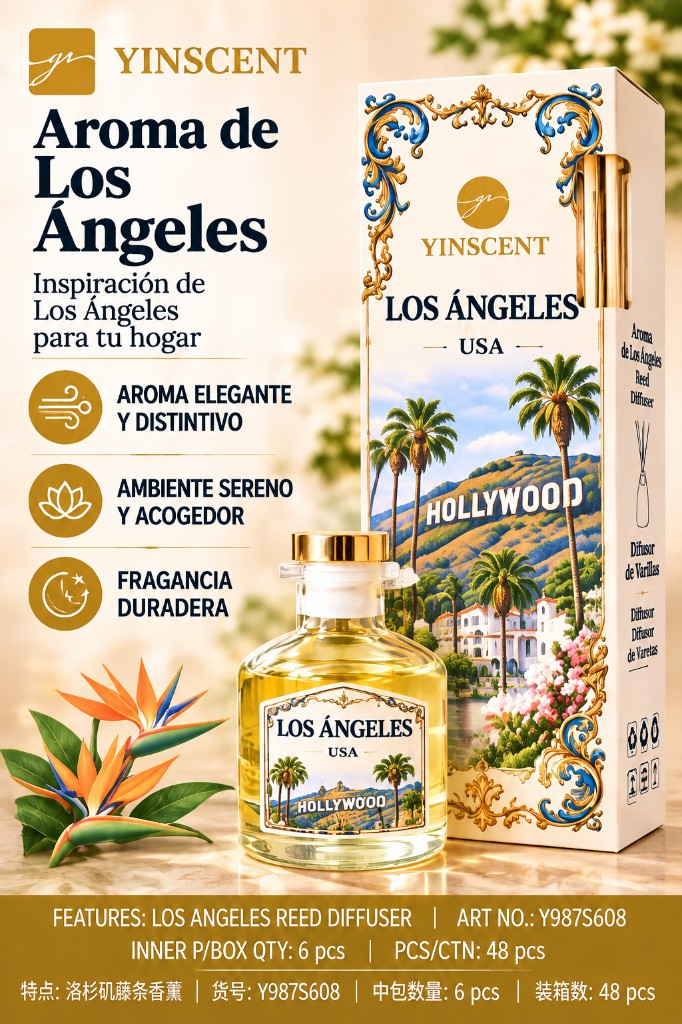
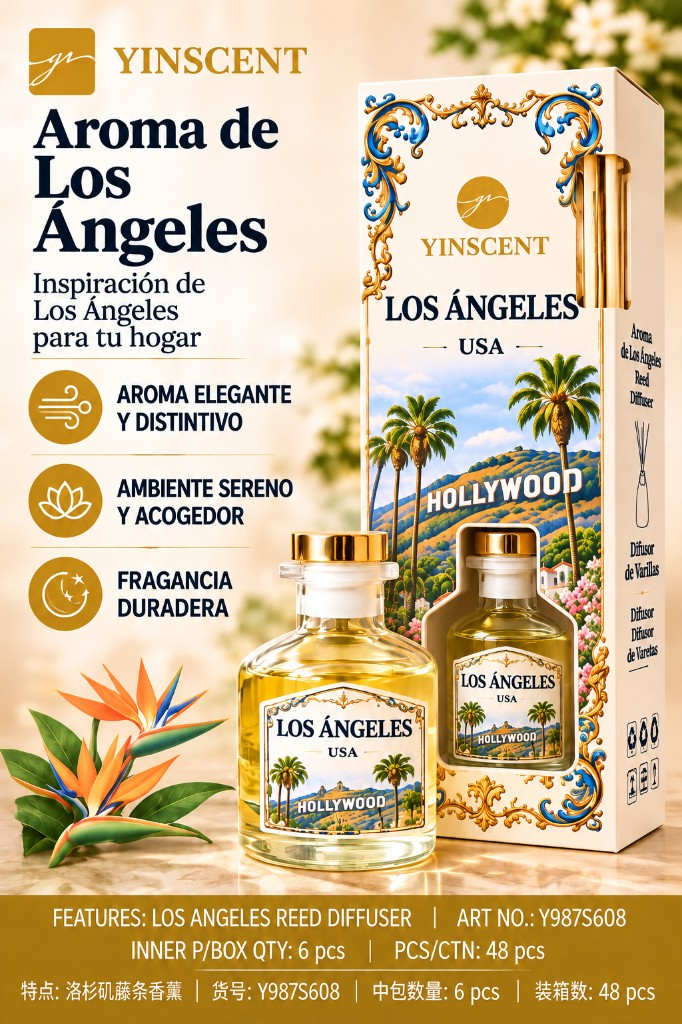
Replace the Mumbai and Los Angeles reed diffuser photos.

diff --git a/index.html b/index.html
@@ -877,8 +877,8 @@
   <script src="js/i18n.js?v=60"></script>
   <script src="js/auth.js?v=7"></script>
   <script src="js/catalog.js?v=2"></script>
-  <script src="js/main.js?v=91"></script>
-  <script src="js/product.js?v=46"></script>
+  <script src="js/main.js?v=92"></script>
+  <script src="js/product.js?v=47"></script>
   <script src="js/story.js?v=5"></script>
   <script src="js/contact.js?v=2"></script>
   <script src="js/to-top.js?v=3"></script>

diff --git a/js/main.js b/js/main.js
@@ -64,7 +64,7 @@
     if (/^[a-z]+-zodiac-diffuser$/.test(slug)) url += "?v=13";
     if (/-reed-refill$/.test(slug)) url += "?v=14";
     if (/-christmas-diffuser$/.test(slug)) url += "?v=15";
-    if (/-city-diffuser$/.test(slug)) url += "?v=29";
+    if (/-city-diffuser$/.test(slug)) url += "?v=30";
     if (/-sachet$/.test(slug)) url += "?v=28";
     if (/-zodiac-candle$/.test(slug)) url += "?v=24";
     if (/-cup-candle$/.test(slug)) url += "?v=16";

diff --git a/js/product.js b/js/product.js
@@ -76,7 +76,7 @@
     if (/^[a-z]+-zodiac-diffuser$/.test(slug)) url += "?v=13";
     if (/-reed-refill$/.test(slug)) url += "?v=14";
     if (/-christmas-diffuser$/.test(slug)) url += "?v=15";
-    if (/-city-diffuser$/.test(slug)) url += "?v=29";
+    if (/-city-diffuser$/.test(slug)) url += "?v=30";
     if (/-sachet$/.test(slug)) url += "?v=28";
     if (/-zodiac-candle$/.test(slug)) url += "?v=24";
     if (/-cup-candle$/.test(slug)) url += "?v=16";
